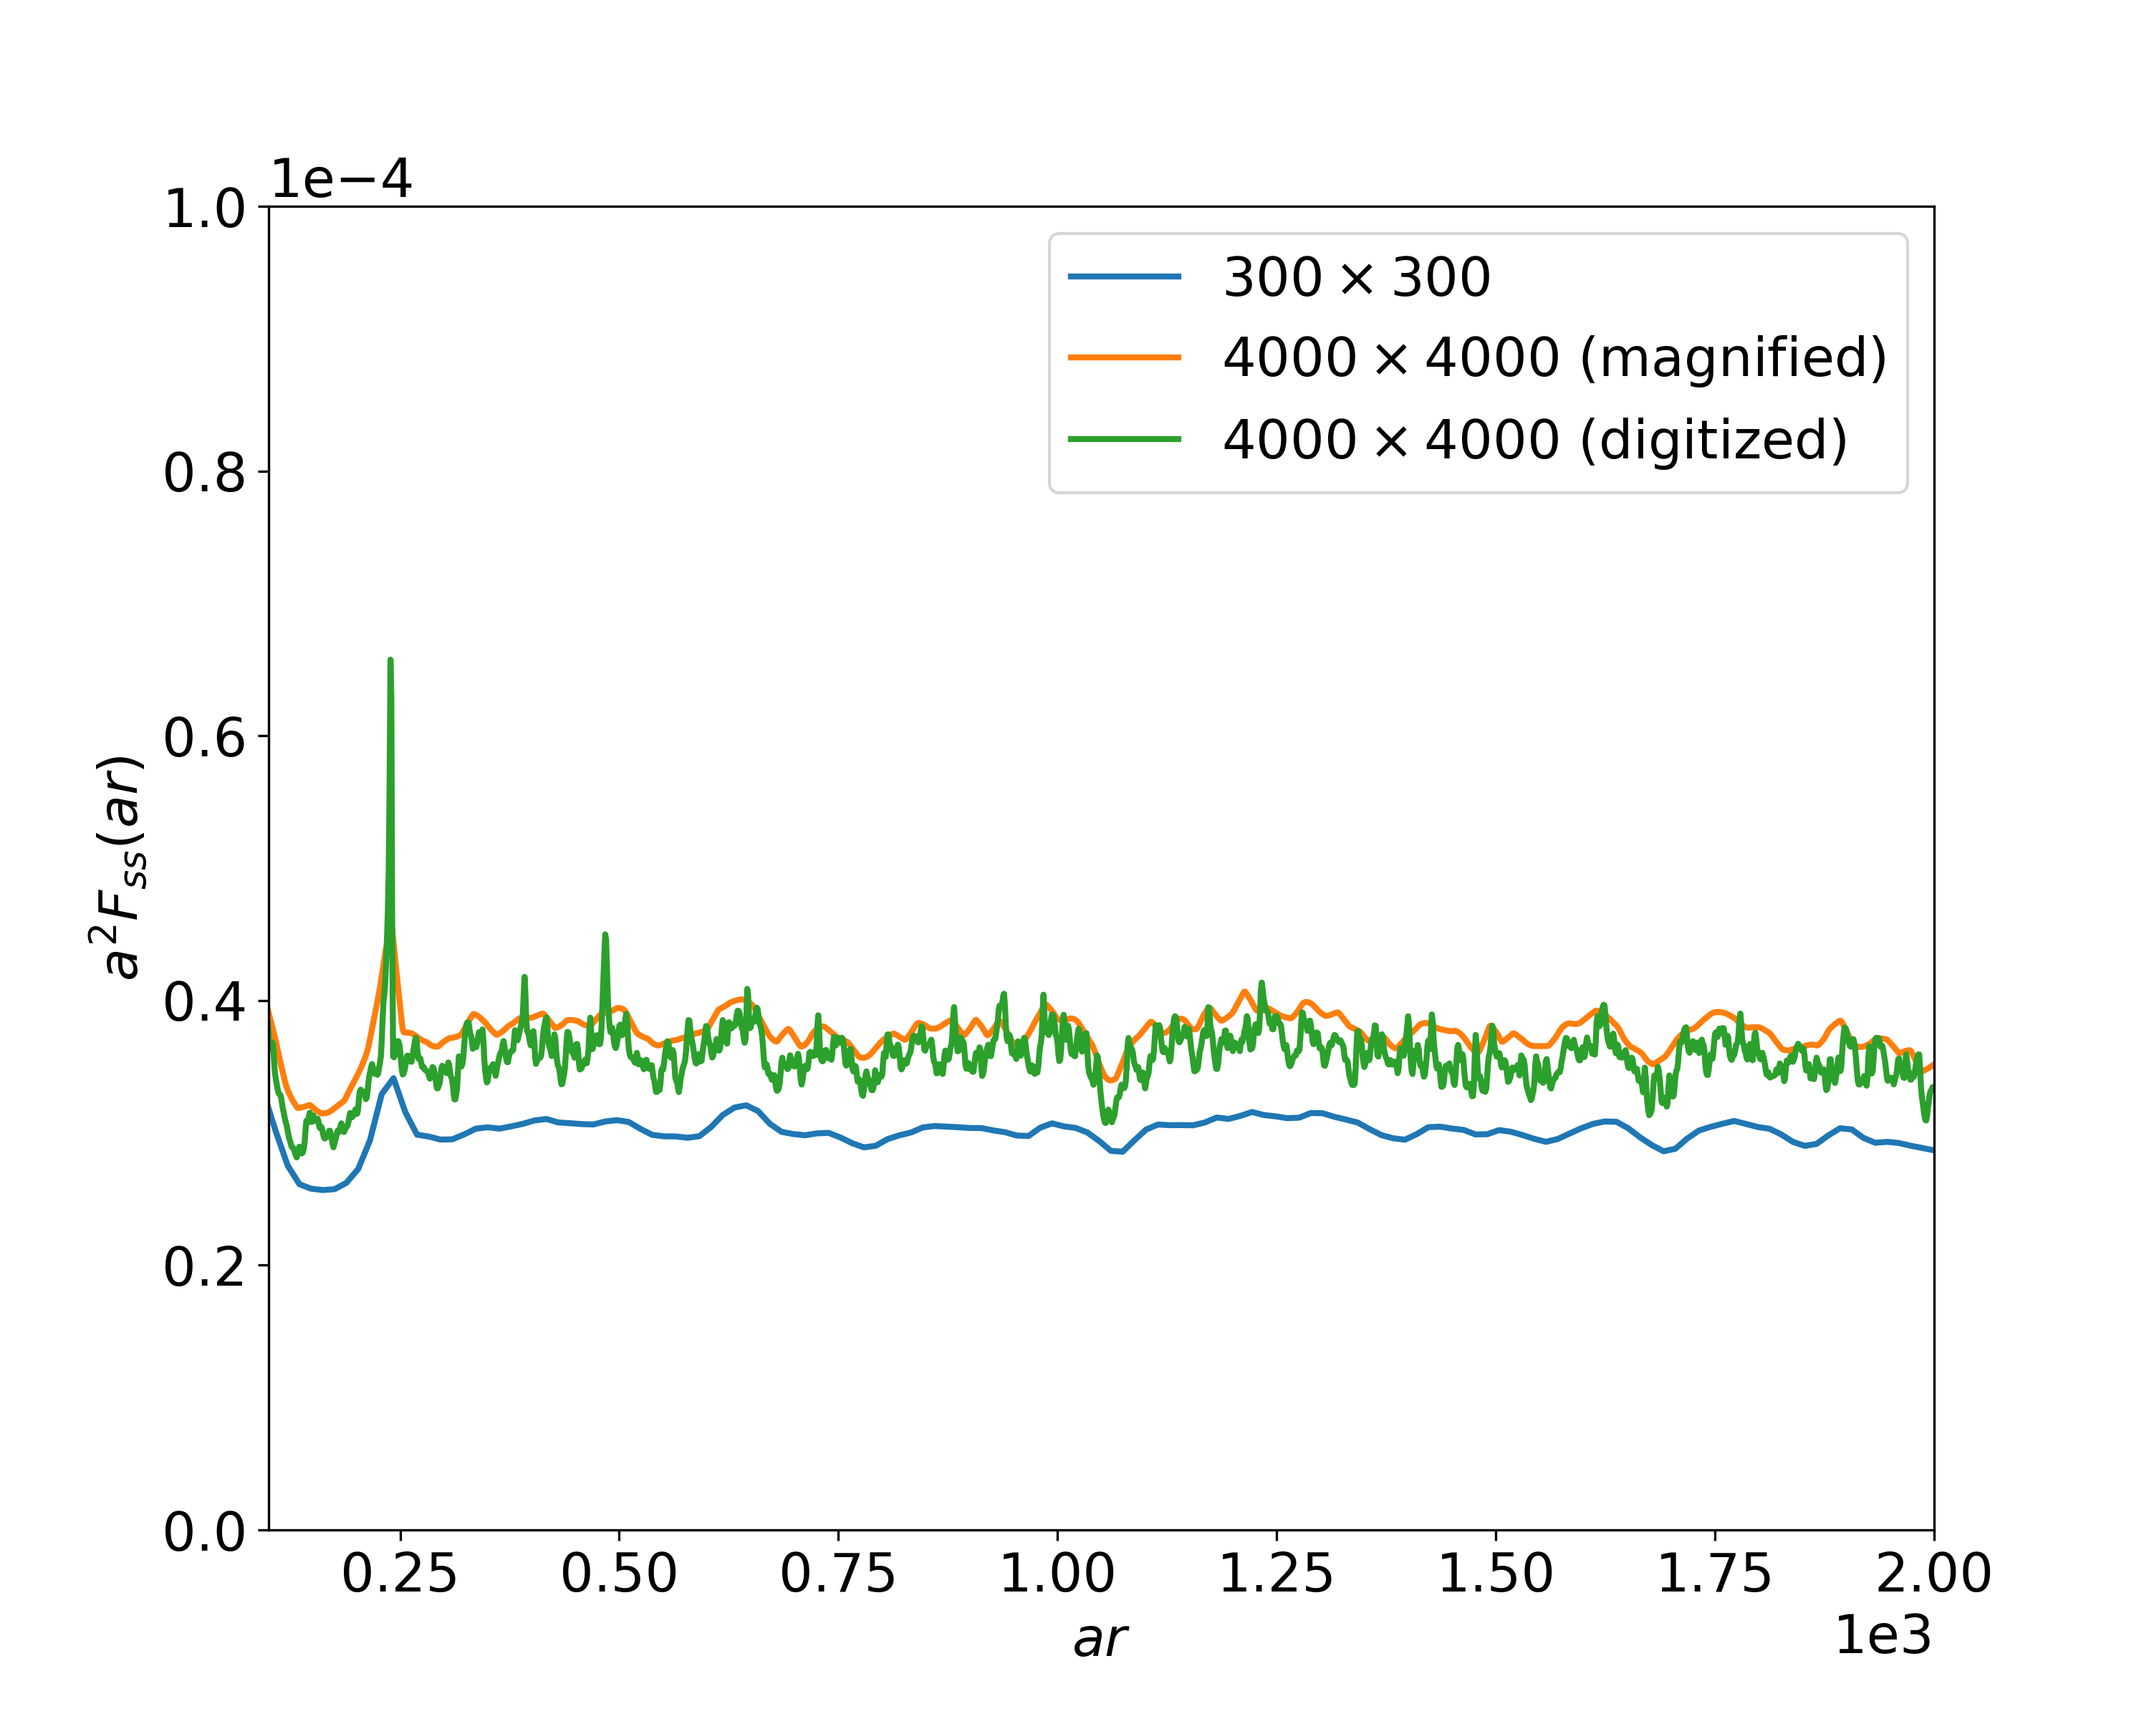
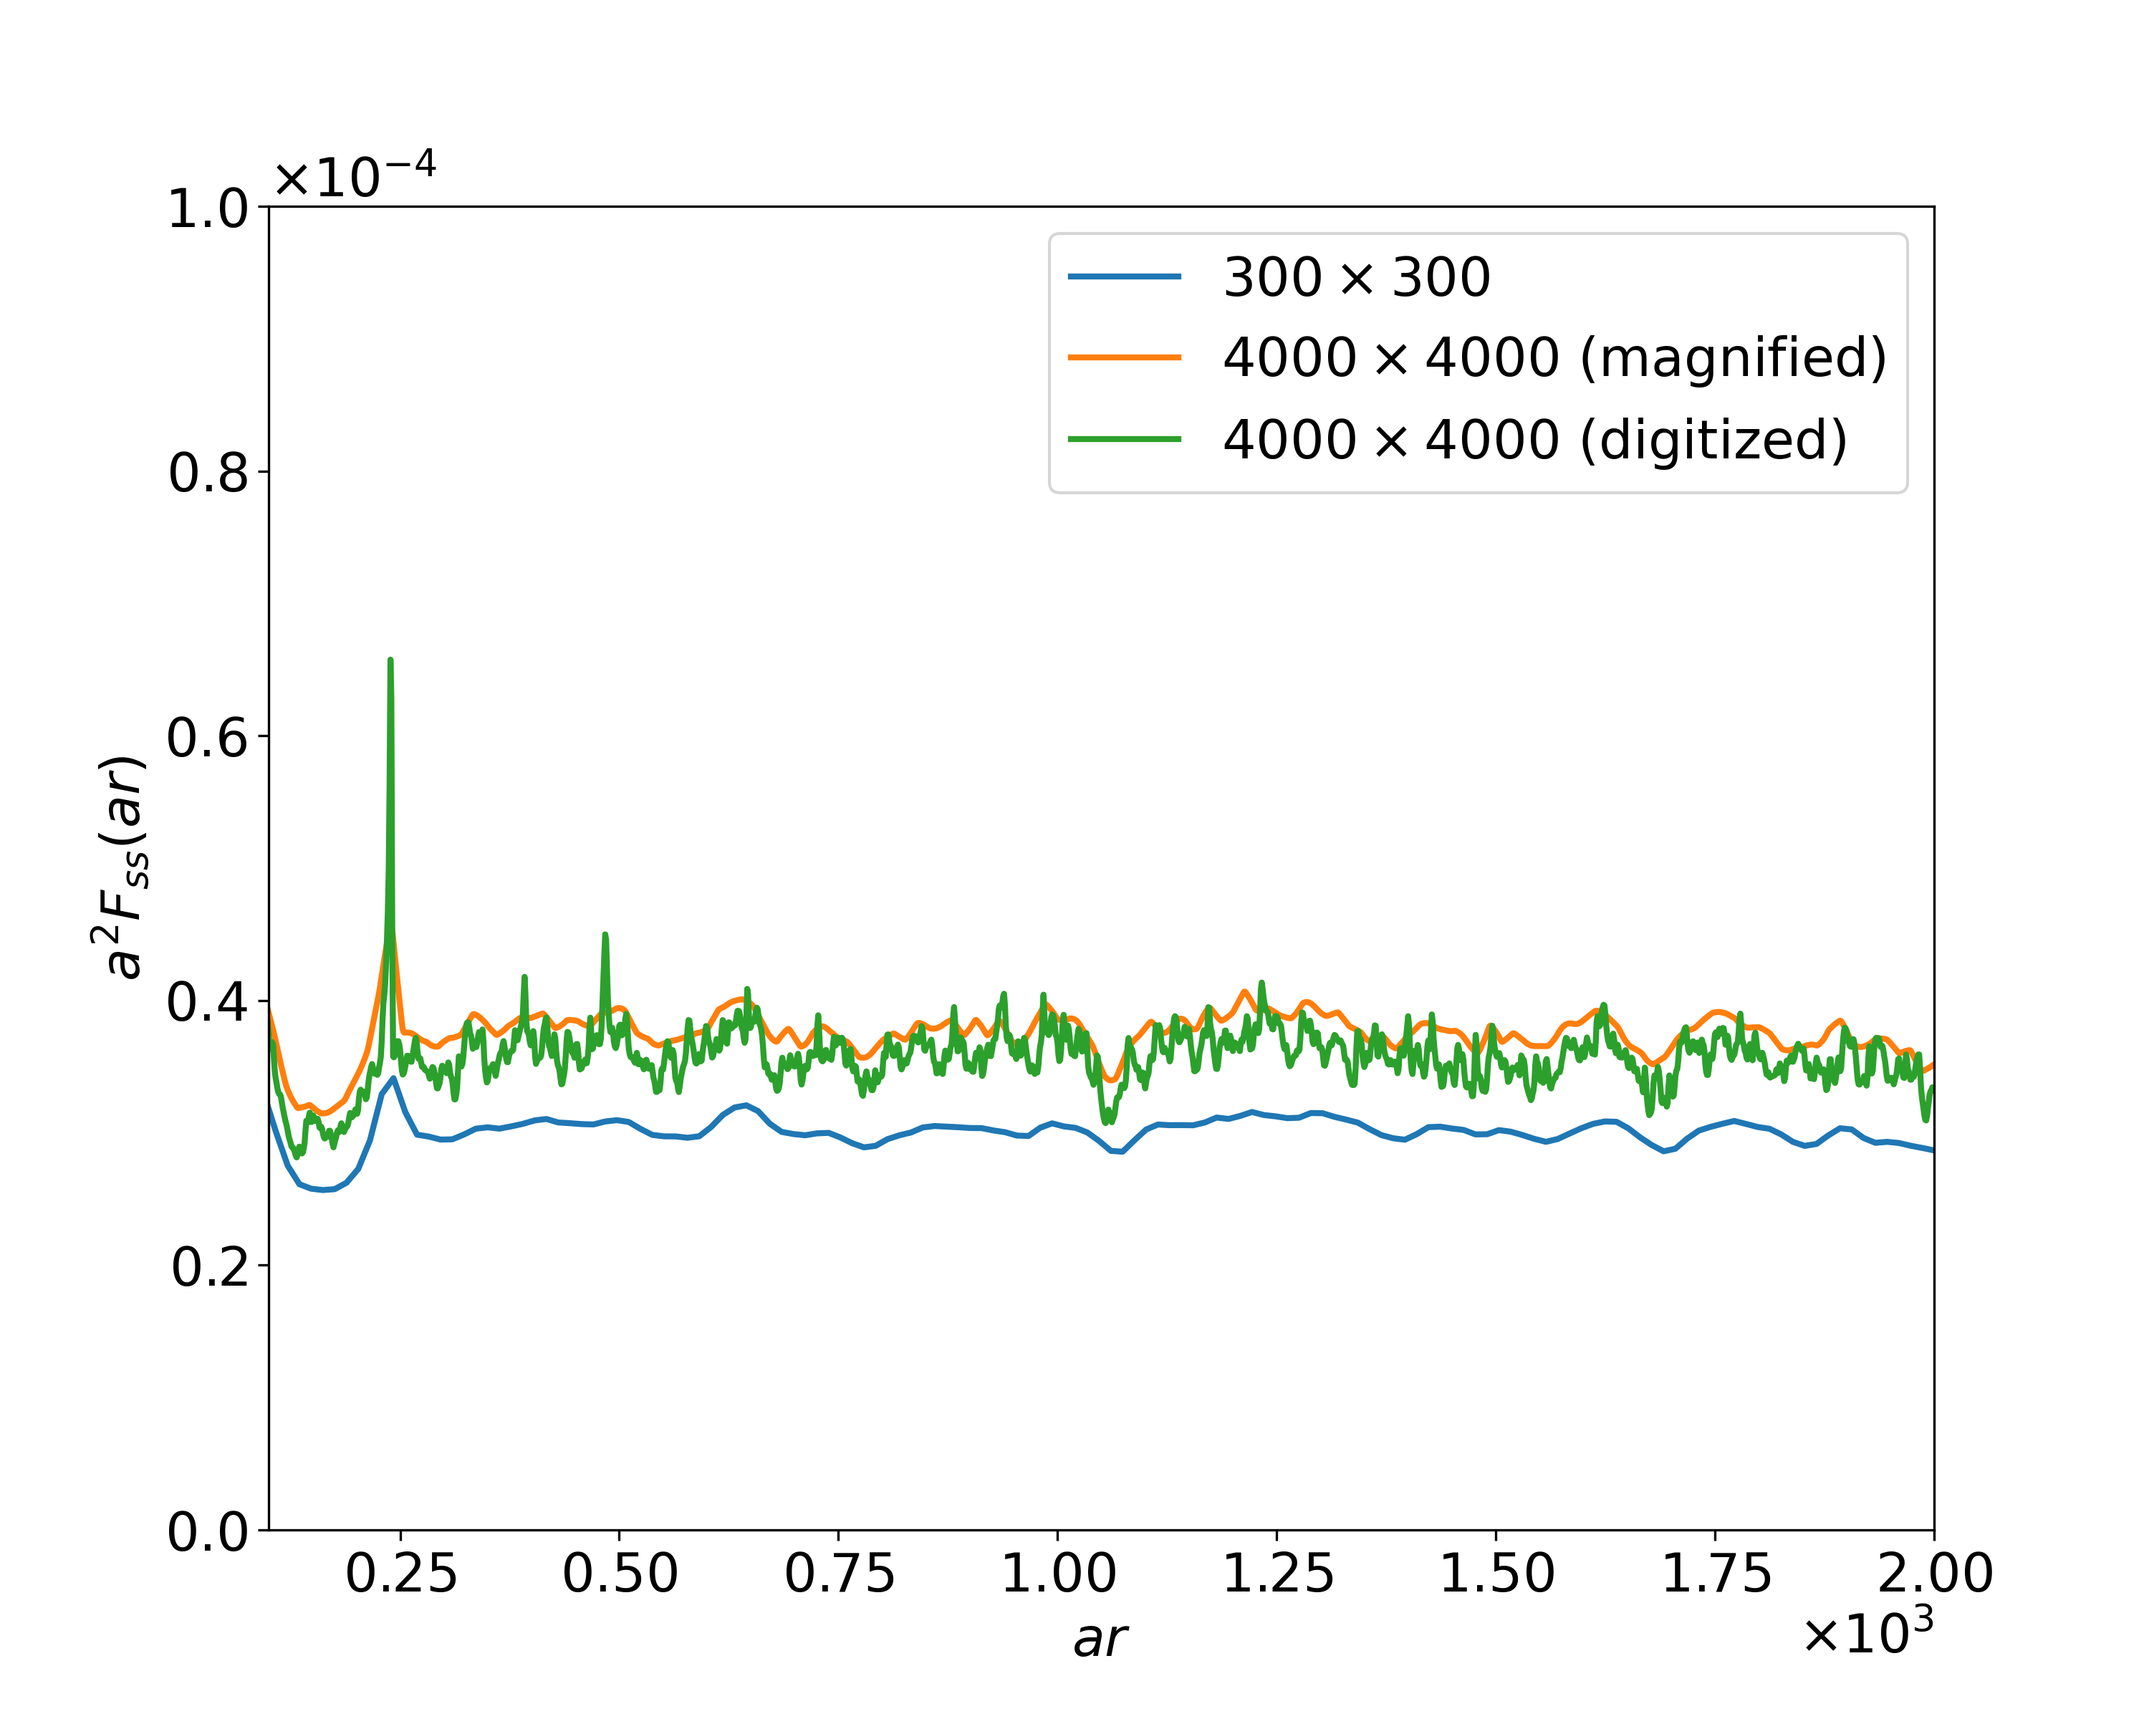
Redraw plots with useMathText = True

diff --git a/scripts&data/plot-real.py b/scripts&data/plot-real.py
@@ -18,7 +18,7 @@ plt.plot(data15604[:,0], linewidth = 2.0)
 plt.plot(data5479[:,0],  linewidth = 2.0)
 plt.plot(data5548[:,0],  linewidth = 2.0)
 plt.plot(data9005[:,0],  linewidth = 2.0)
-plt.ticklabel_format(axis = "y", scilimits = (0, 0))
+plt.ticklabel_format(axis = "y", scilimits = (0, 0), useMathText = True)
 plt.xlim([10, 250])
 plt.ylim([0, 0.005])
 plt.xlabel('Correlation length $r$')
@@ -34,7 +34,7 @@ plt.plot(data15604[:,1], linewidth = 2.0)
 plt.plot(data5479[:,1],  linewidth = 2.0)
 plt.plot(data5548[:,1],  linewidth = 2.0)
 plt.plot(data9005[:,1],  linewidth = 2.0)
-plt.ticklabel_format(axis = "y", scilimits = (0, 0))
+plt.ticklabel_format(axis = "y", scilimits = (0, 0), useMathText = True)
 plt.xlabel('Correlation length $r$')
 plt.ylabel('Surface-void function $F_{sv}(r)$')
 plt.legend(['Sandstone 1', 'Sandstone 2', 'Sandstone 3', 'Carbonate 1', 'Carbonate 2', 'Carbonate 3'])
@@ -52,7 +52,7 @@ plt.plot(data1[:,0], linewidth = 2.0)
 plt.plot(data2[:,0], linewidth = 2.0)
 plt.plot(data3[:,0], linewidth = 2.0)
 plt.plot(data4[:,0],  linewidth = 2.0)
-plt.ticklabel_format(axis = "y", scilimits = (0, 0))
+plt.ticklabel_format(axis = "y", scilimits = (0, 0), useMathText = True)
 plt.xlim([10, 340])
 plt.ylim([0, 0.002])
 plt.xlabel('Correlation length $r$')
@@ -66,7 +66,7 @@ plt.plot(data1[:,1], linewidth = 2.0)
 plt.plot(data2[:,1], linewidth = 2.0)
 plt.plot(data3[:,1], linewidth = 2.0)
 plt.plot(data4[:,1],  linewidth = 2.0)
-plt.ticklabel_format(axis = "y", scilimits = (0, 0))
+plt.ticklabel_format(axis = "y", scilimits = (0, 0), useMathText = True)
 plt.xlim([0, 340])
 plt.xlabel('Correlation length $r$')
 plt.ylabel('Surface-void function $F_{sv}(r)$')
